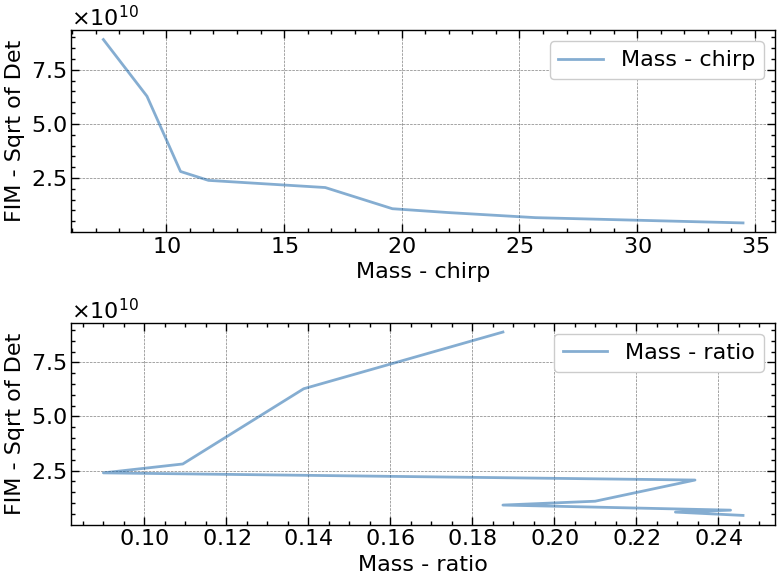
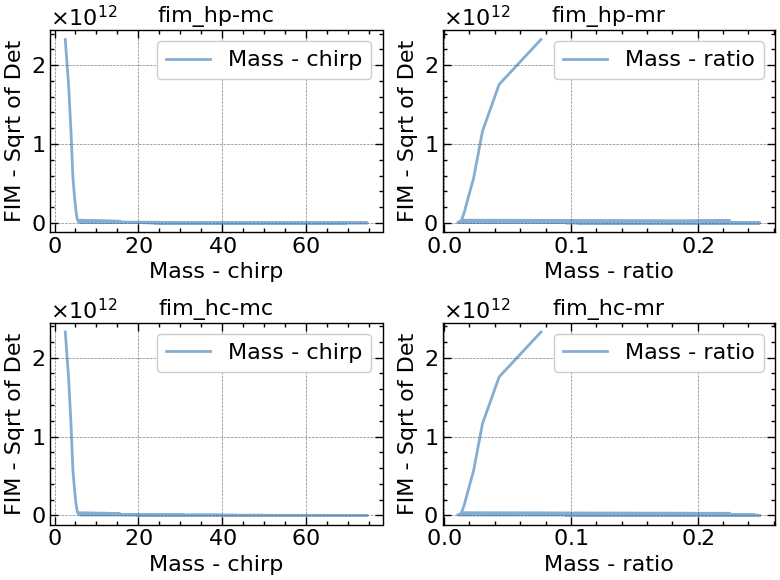
Work file clean-up

diff --git a/data/gw_plotter.py b/data/gw_plotter.py
@@ -163,7 +163,7 @@ def fim_param_plot(
         data_fim_hc_repo[idx_hc_sort],
     )
     # Plot init
-    fig, ((ax1, ax2), (ax3, ax4)) = plt.subplots(4, 1)
+    fig, ((ax1, ax2), (ax3, ax4)) = plt.subplots(2, 2)
     # Plotter
     ax1.plot(mc_hp_repo, fim_hp_repo, label="Mass - chirp", alpha=0.5)
     ax2.plot(mr_hp_repo, fim_hp_repo, label="Mass - ratio", alpha=0.5)

diff --git a/main.py b/main.py
@@ -116,4 +116,5 @@ data_mr_repo = jnp.array([item for item in data_mr_repo])
 # %%
 gw_plotter.fim_param_plot(data_fim_hp_repo, data_fim_hc_repo, data_mc_repo, data_mr_repo)
 gw_plotter.fim_contour_plot(data_fim_hp_repo, data_fim_hc_repo, data_mc_repo, data_mr_repo)
+
 # %%
